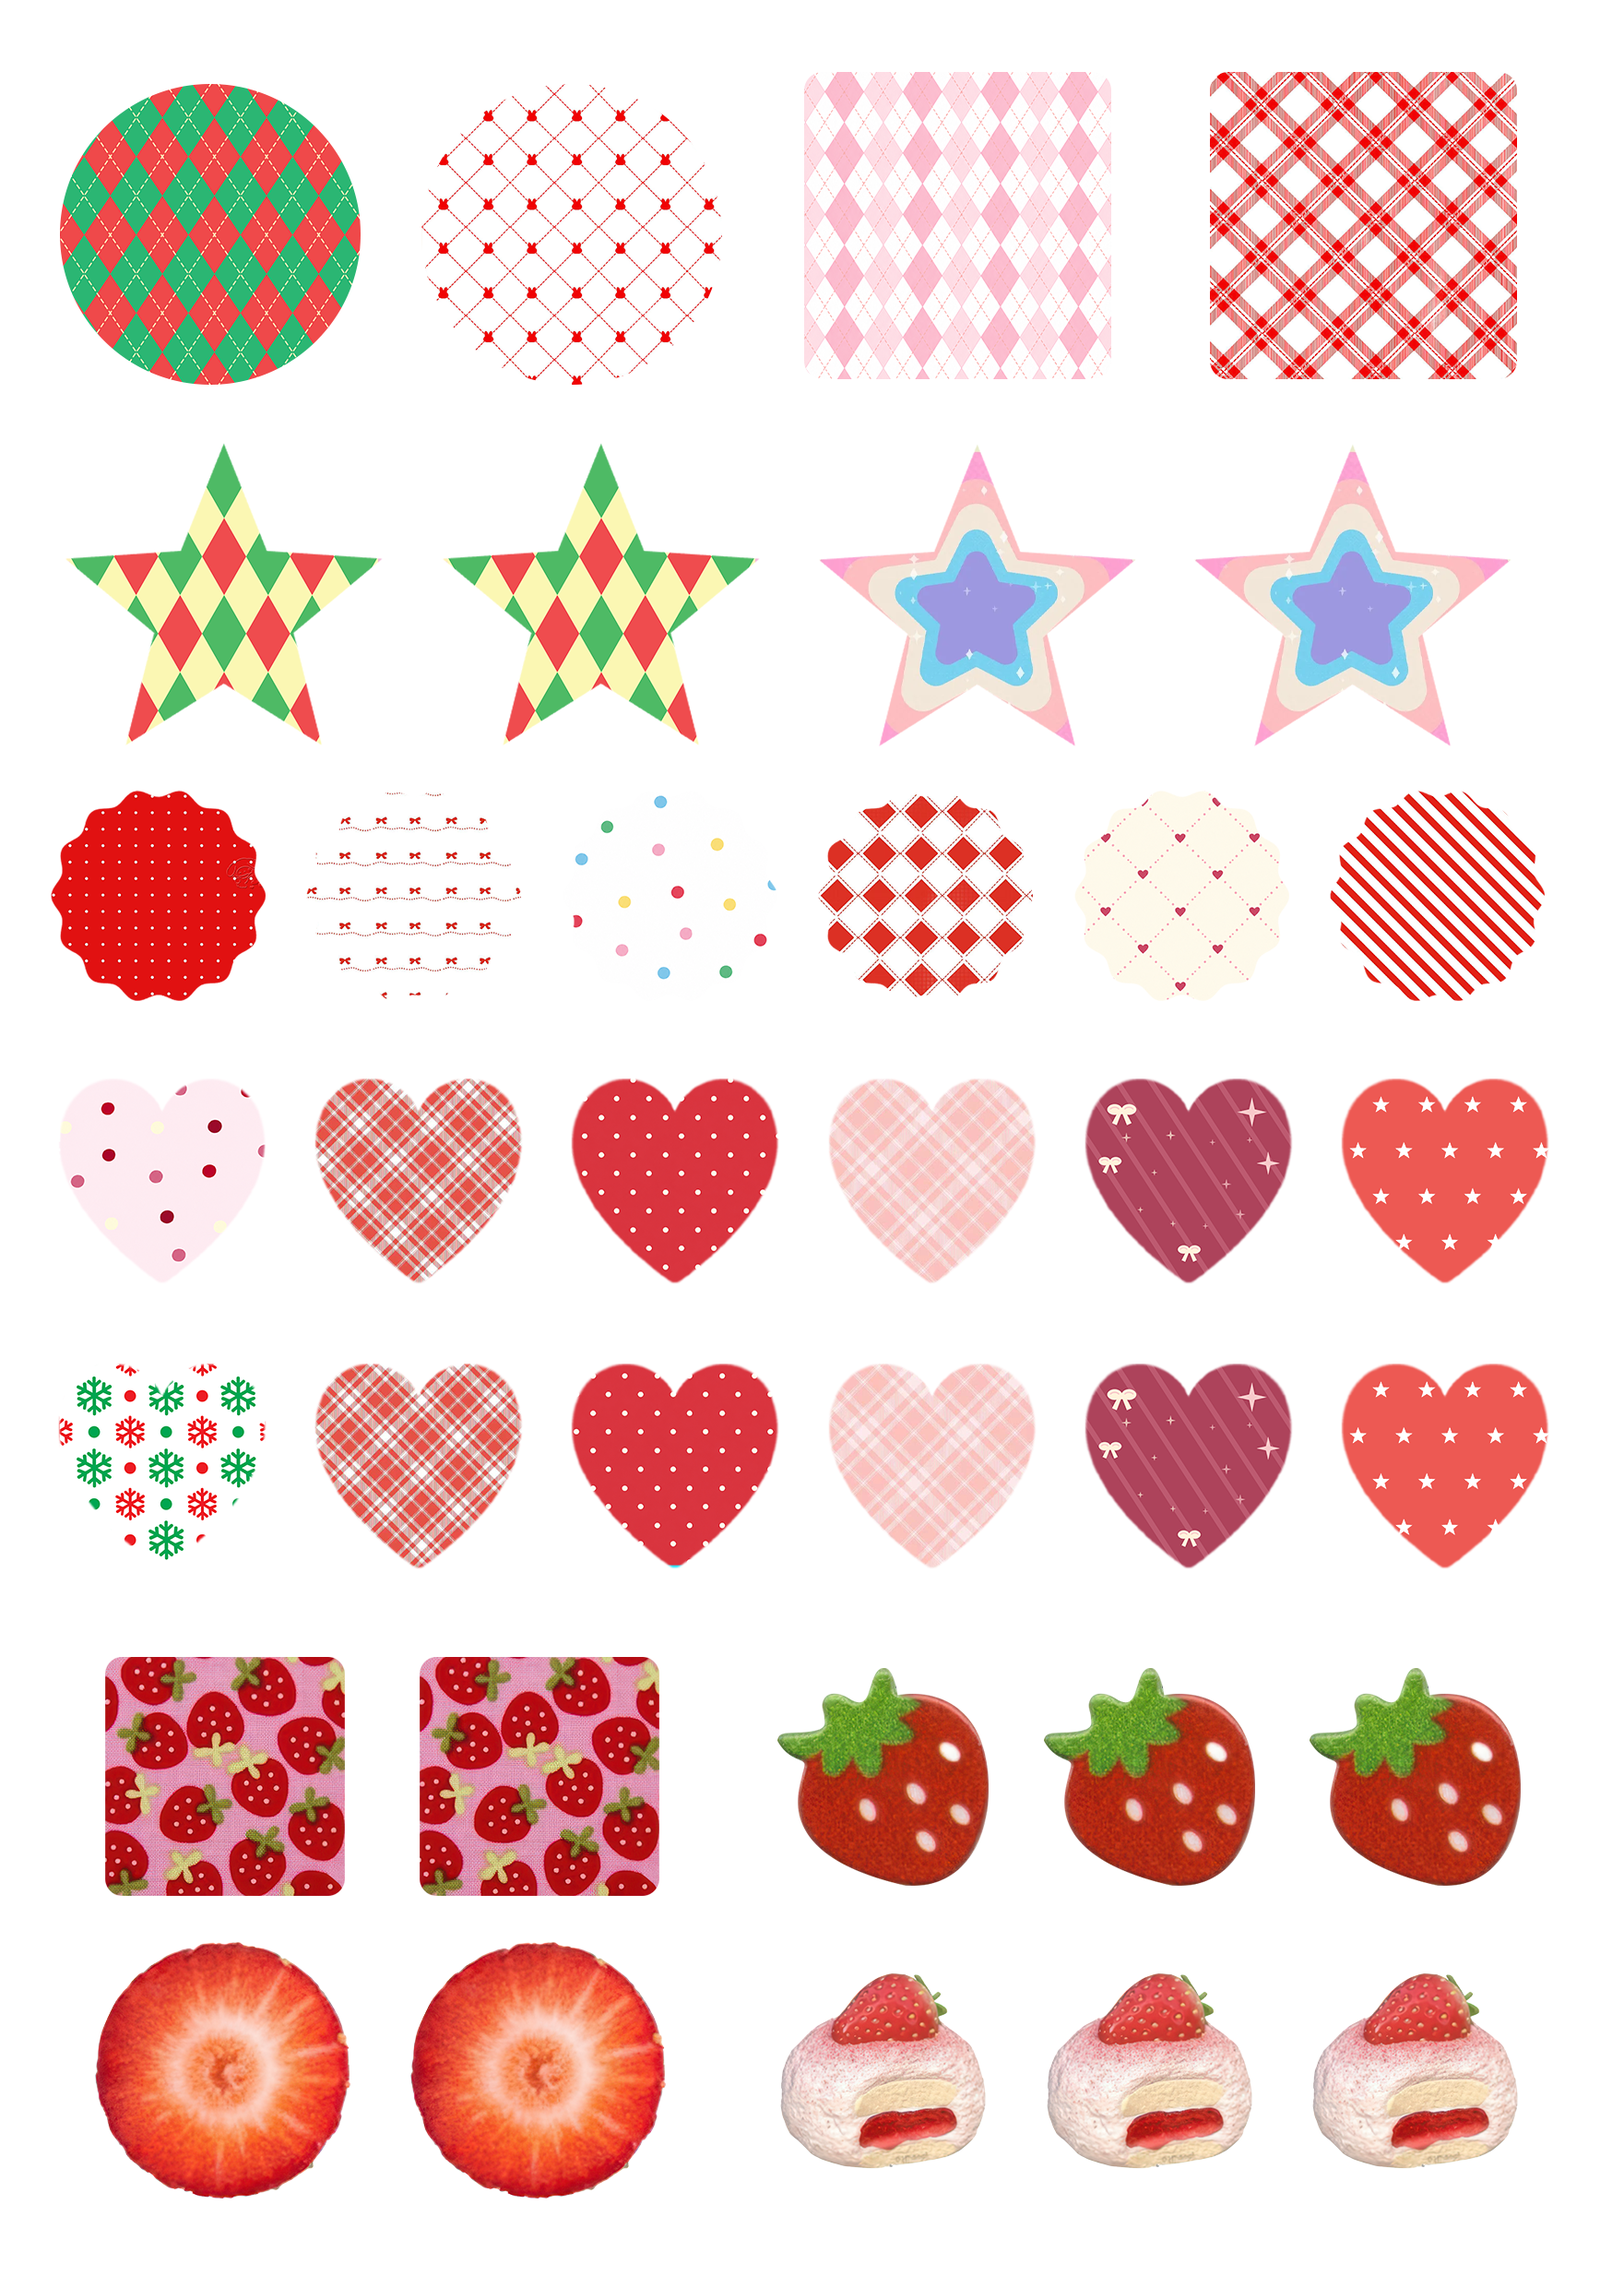
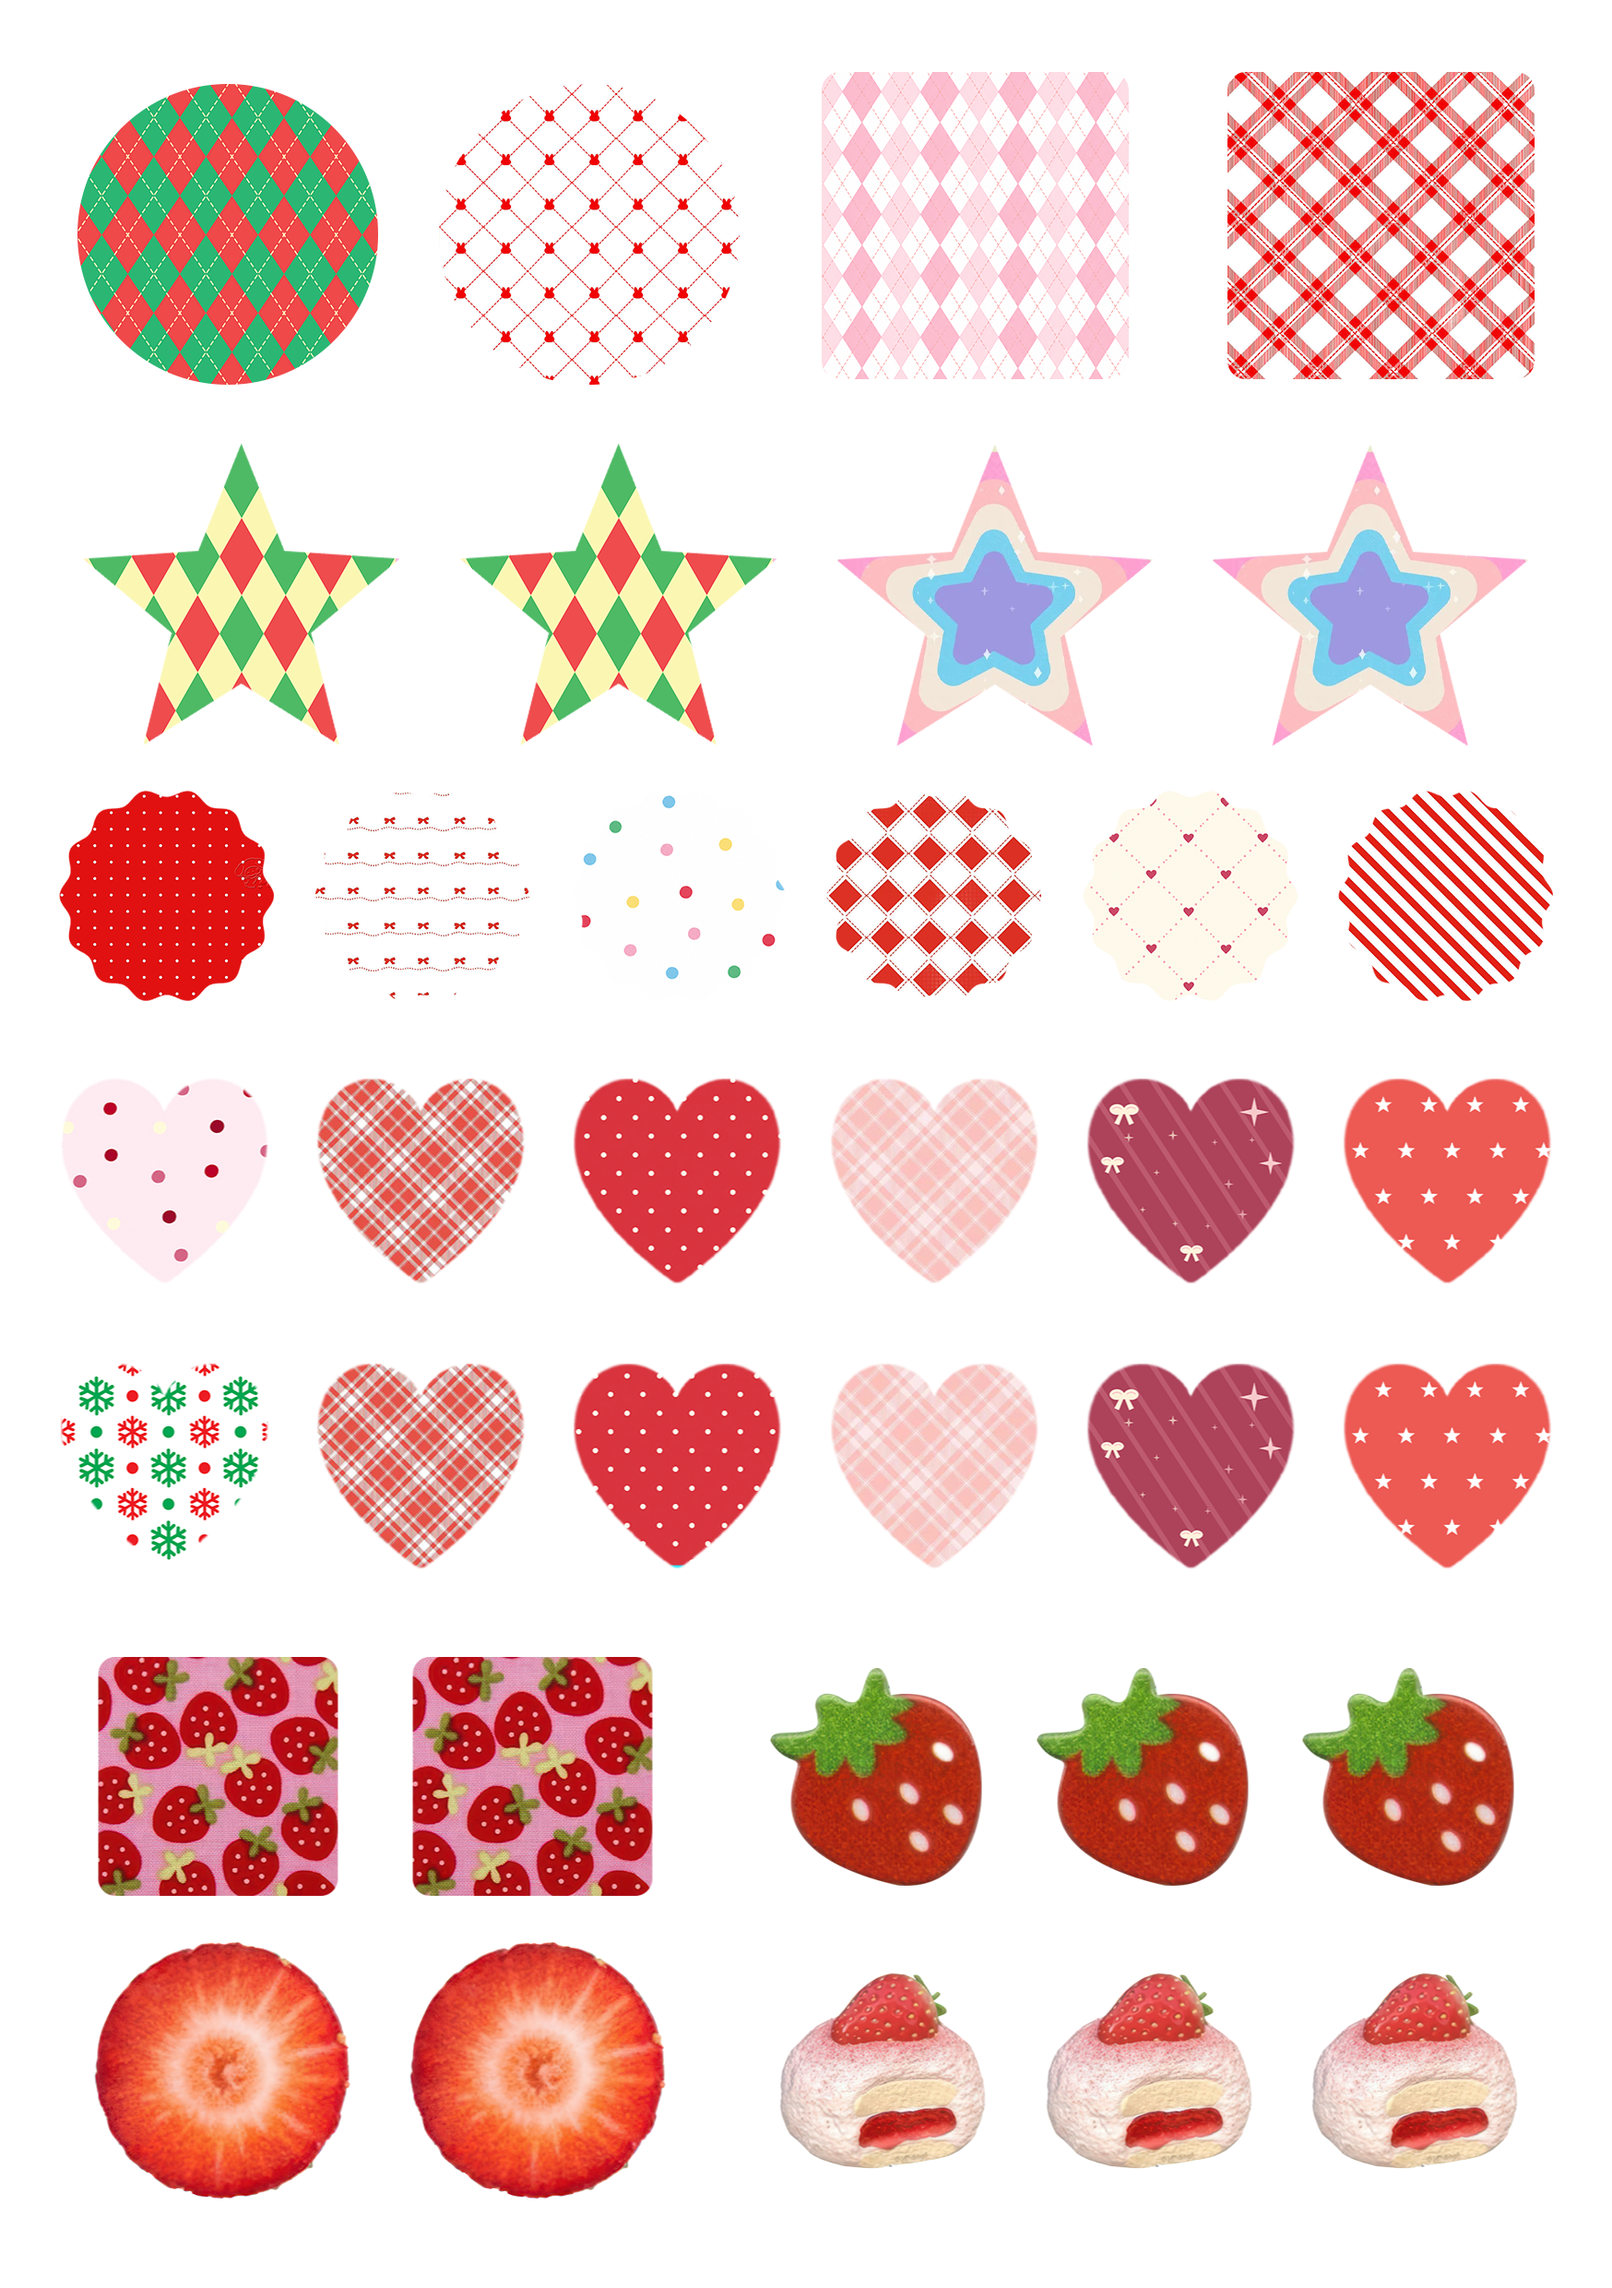
fix: 草莓模板逐排居中并同步照片位置

diff --git a/web/src/services/heartStarStrawberry.test.ts b/web/src/services/heartStarStrawberry.test.ts
@@ -59,6 +59,23 @@ describe('strawberry template', () => {
     expect(calls[0].slice(1)).toEqual([area.x + 10 - area.h / 4, area.y - 5 - area.h / 2, area.h / 2, area.h])
   })
 
+  it('centers every row across the sheet and keeps photo frames inside their artwork', () => {
+    const cfg = feature().build()
+    for (let row = 0; row < 7; row++) {
+      const ids = cfg.slots.flatMap((slot: any, index: number) => slot.row === row ? [index] : [])
+      const left = Math.min(...ids.map((i: number) => cfg.placements[i].x))
+      const right = cfg.w - Math.max(...ids.map((i: number) => cfg.placements[i].x + cfg.placements[i].w))
+      // Some source boxes include a one-pixel transparent fringe.
+      expect(Math.abs(left - right)).toBeLessThanOrEqual(1)
+      for (const i of ids) {
+        const photo = cfg.slots[i].photoArea, artwork = cfg.placements[i]
+        expect(cfg.slots[i].x).toBe(photo.x)
+        expect(photo.x - photo.w / 2).toBeGreaterThanOrEqual(artwork.x)
+        expect(photo.x + photo.w / 2).toBeLessThanOrEqual(artwork.x + artwork.w)
+      }
+    }
+  })
+
   it('selects A5 dimensions and restores previous user dimensions when leaving the new template', () => {
     const scope: any = {}, width = { value: '160' }, height = { value: '220' }
     new Function('globalThis', presetSource)(scope)

diff --git a/web/public/embedded/heart-star/strawberry-template.js b/web/public/embedded/heart-star/strawberry-template.js
@@ -3,7 +3,7 @@
 (() => {
   'use strict';
   const name = '草莓.png';
-  const source = './assets/strawberry-template.png?v=2';
+  const source = './assets/strawberry-template.png?v=3';
   function build() {
     // Each entry: artwork [left, top, width, height], photo [cx, cy, width, height].
     // Centers use the filled artwork silhouette, rounded to half a pixel.
@@ -60,11 +60,14 @@
         [[1423, 2138, 223, 213], [1535.5, 2256, 126, 134]],
       ],
     ];
+    // Match the per-row translations baked into the centered PNG. Keep photos
+    // and artwork together without changing their sizes or internal spacing.
+    const rowOffsets = [19, 19, 9, 2.5, 2.5, -7.5, -.5];
     const slots = [], placements = [];
     rows.forEach((entries, row) => entries.forEach(([box, photo], column) => {
-      const [x, y, w, h] = photo;
+      const [originalX, y, w, h] = photo, x = originalX + rowOffsets[row];
       slots.push({ x, y, w: w / .62, h: h / .62, type: 'rect', row, column, photoArea: { x, y, w, h } });
-      placements.push({ x: box[0], y: box[1], w: box[2], h: box[3] });
+      placements.push({ x: box[0] + rowOffsets[row], y: box[1], w: box[2], h: box[3] });
     }));
     return { w: 1748, h: 2480, widthMm: 148, heightMm: 210, slots, placements, motifSlots: [] };
   }

diff --git a/web/public/embedded/heart-star/index.html b/web/public/embedded/heart-star/index.html
@@ -263,7 +263,7 @@ body{height:100vh;height:100dvh;display:flex;flex-direction:column;overflow:hidd
 <script src="./candy-motifs.js?v=candy-ime-2"></script>
 <script src="./party-motifs.js?v=party-1"></script>
 <script src="./heart-preset.js?v=strawberry-1"></script>
-<script src="./strawberry-template.js?v=3"></script>
+<script src="./strawberry-template.js?v=4"></script>
 <script src="./template-link.js?v=1"></script>
 <script src="./cloud-snapshot.js?v=cloud-1"></script>
 <script src="./cloud-editor.js?v=strawberry-1"></script>

diff --git a/docs/strawberry-template.md b/docs/strawberry-template.md
@@ -3,20 +3,23 @@
 Web 模板选择器中的「草莓款 · A5 竖版」，模板 ID 为 `草莓.png`。
 默认内容尺寸 148 × 210 mm；底部编号启用时沿用编辑器额外增加 3 mm 的规则。
 
-- 原图为 1748 × 2480 像素，完整保留用户提供的 PNG。
+- 画布为 1748 × 2480 像素，使用用户提供的图案；各排整体水平居中，图案大小及排内间距保持原样。
 - 7 排、36 个照片位置，每排数量依次为 4、4、6、6、6、5、5。
 - 当前使用用户提供的无头像底图，已替换临时示例图；未上传照片时仅显示图案。
 - 照片中心按无头像底图的填实轮廓重新标定，排除纹理中的透明孔洞；爱心、草莓及蛋糕按主体面积中心居中。照片大小保持原有设置，支持多选、循环填图、移动、缩放、裁剪、PNG 导出与共享作品保存。
+- 每排左右留白相等；默认 148 mm 宽、计入透明抗锯齿边缘时，从上到下每侧约为 7.11、7.62、5.42、5.50、5.50、8.97、8.64 mm。照片及选区与底图使用相同的水平平移。
 - 这张完整底图暂未拆分为可互换的图案素材。
 
 ## 后续更新底图
 
-1. 将同版、同画布（1748 × 2480）的无头像 PNG 替换到
-   `web/public/embedded/heart-star/assets/strawberry-template.png`。
-2. 在 `strawberry-template.js` 中递增 `source` 的 `?v=` 版本（当前为 `v=2`），
+1. 新底图须按排居中后再替换到
+   `web/public/embedded/heart-star/assets/strawberry-template.png`，画布仍为 1748 × 2480。
+   当前各排相对用户原图的水平平移（像素）为 `19、19、9、2.5、2.5、-7.5、-0.5`；
+   整数平移直接复制像素，半像素平移用预乘透明度插值，保留图案比例及透明边缘。
+2. 在 `strawberry-template.js` 中递增 `source` 的 `?v=` 版本（当前为 `v=3`），
    同时递增 `index.html` 中该脚本的版本，确保浏览器加载更新后的资源。
-3. 照片及图案位置均位于 `strawberry-template.js` 的 `rows` 中。
-   同尺寸、同位置的底图可直接复用；画布或版式变化时重新标定。
+3. 照片及图案的原始位置位于 `strawberry-template.js` 的 `rows` 中，
+   `rowOffsets` 与底图各排的水平平移一致；更新底图时同步校准二者。
 
 共享作品会保存自己的底图与位置快照，更新内置底图不会改变旧作品。
 本地接入不等于线上发布，线上使用需按现有 Web 发布流程部署。
